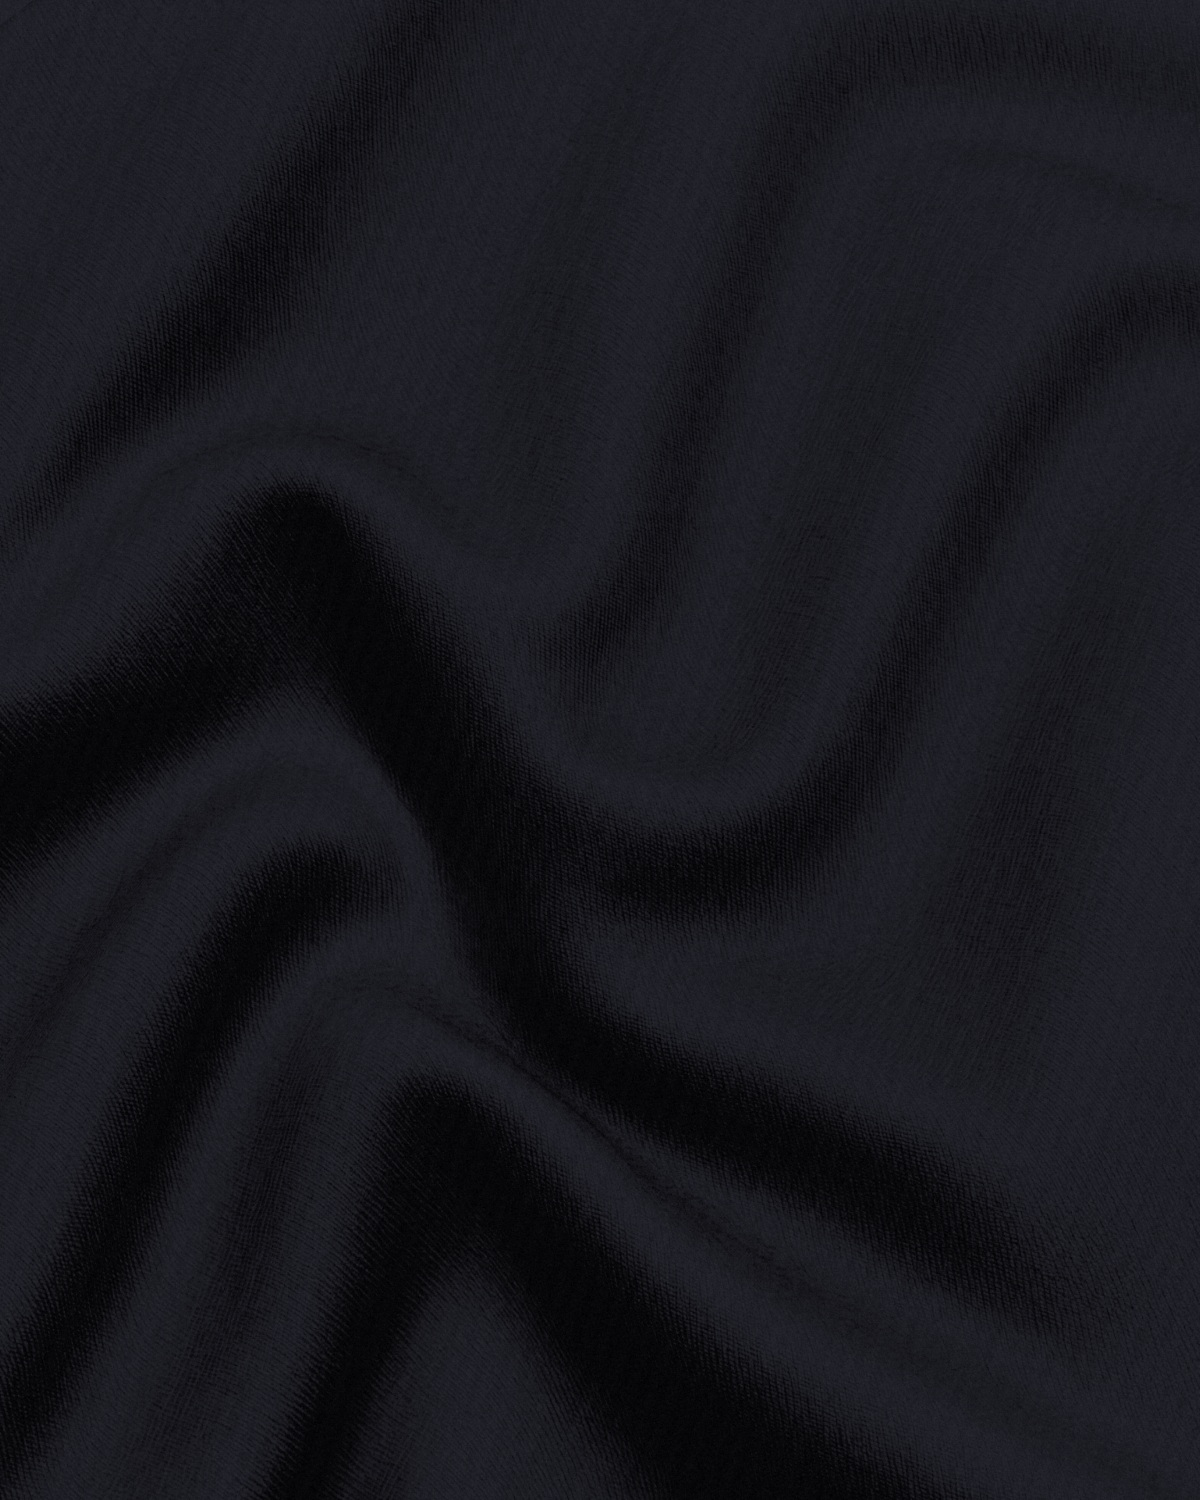
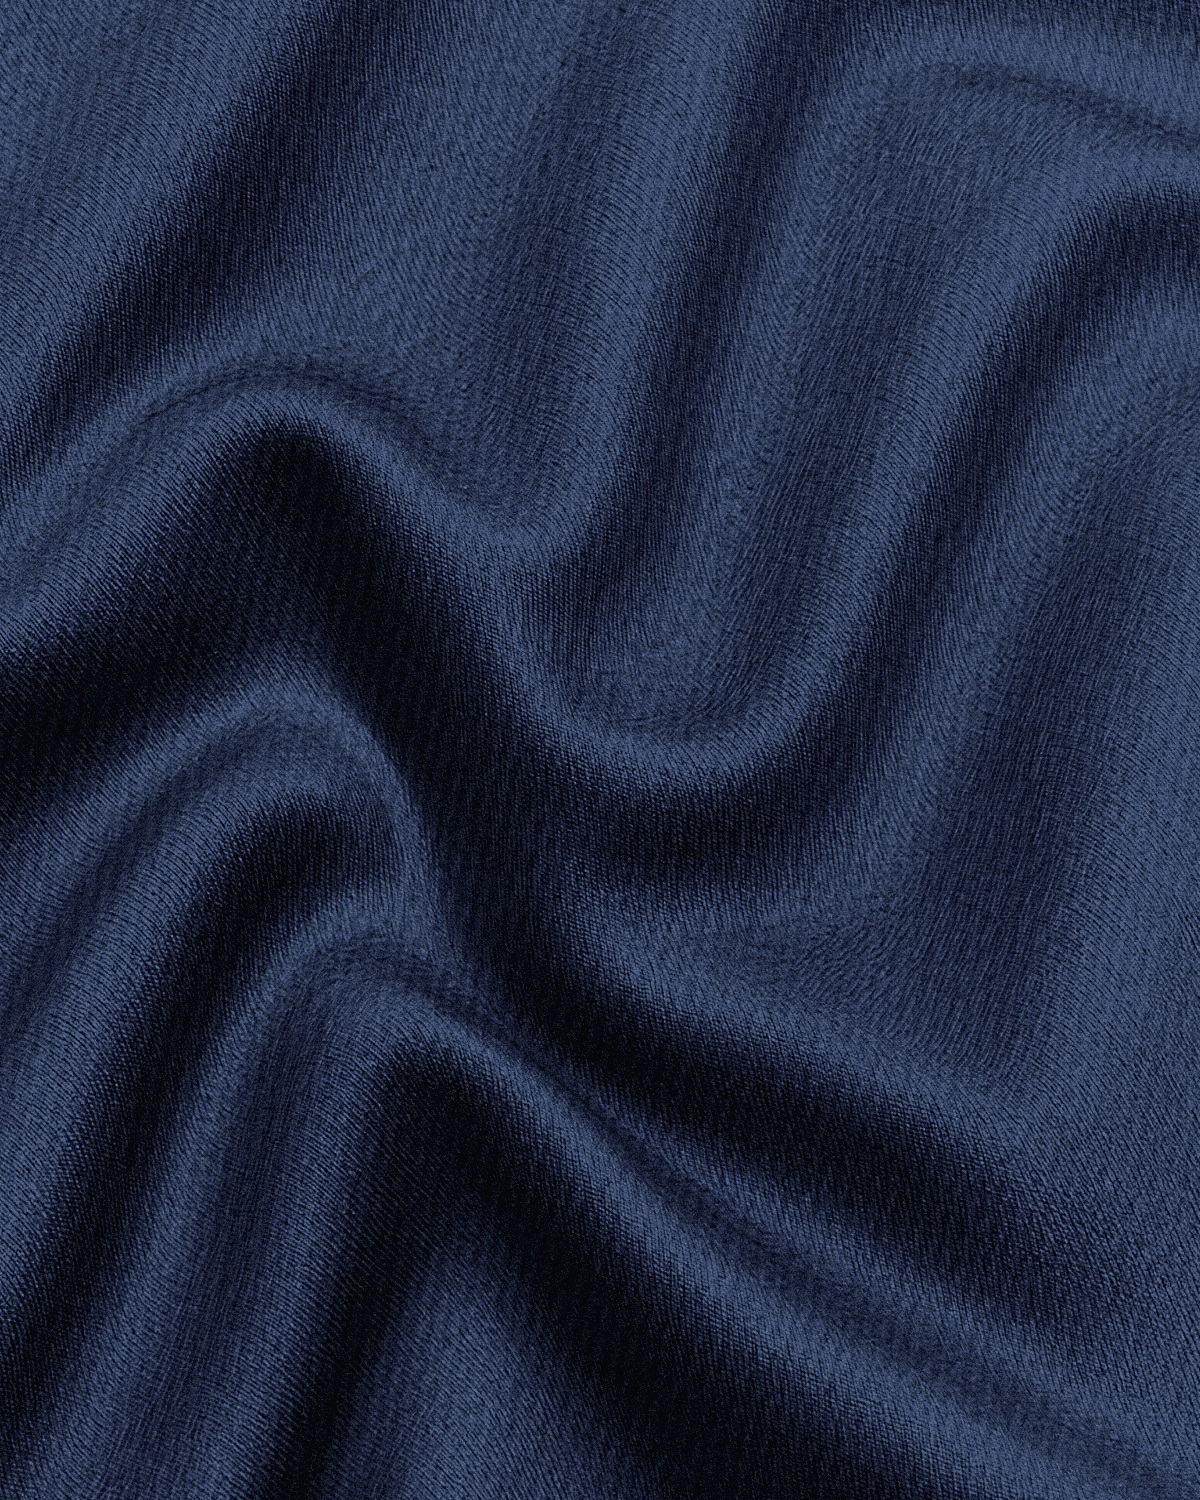
Make Noir blacks read as draped cloth, not a flat black screen.
Lift fold highlights and weave on all four Noir shades and add hex values
so colour chips show jet black, ink black, charcoal, and navy.

diff --git a/src/data/catalog.ts b/src/data/catalog.ts
@@ -428,24 +428,28 @@ export const products: Product[] = [
       {
         id: "fea-04-01",
         name: "Aswad — Jet Black",
+        hex: "#141414",
         available: true,
         imageIds: ["fea-04-01-studio", "fea-04-01-fill", "fea-04-01-detail"],
       },
       {
         id: "fea-04-02",
         name: "Layl — Ink Black",
+        hex: "#1a1f26",
         available: true,
         imageIds: ["fea-04-02-studio", "fea-04-02-fill", "fea-04-02-detail"],
       },
       {
         id: "fea-04-03",
         name: "Zulmat — Deep Charcoal",
+        hex: "#2a2926",
         available: true,
         imageIds: ["fea-04-03-studio", "fea-04-03-fill", "fea-04-03-detail"],
       },
       {
         id: "fea-04-04",
         name: "Neel — Midnight Navy",
+        hex: "#1a2740",
         available: true,
         imageIds: ["fea-04-04-studio", "fea-04-04-fill", "fea-04-04-detail"],
       },
@@ -546,24 +550,28 @@ export const products: Product[] = [
       {
         id: "fea-05-01",
         name: "Raad — Graphite Charcoal",
+        hex: "#3a3b3c",
         available: true,
         imageIds: ["fea-05-01-studio", "fea-05-01-fill", "fea-05-01-detail"],
       },
       {
         id: "fea-05-02",
         name: "Zarrar — Dark Olive",
+        hex: "#3f3a30",
         available: true,
         imageIds: ["fea-05-02-studio", "fea-05-02-fill", "fea-05-02-detail"],
       },
       {
         id: "fea-05-03",
         name: "Shahbaz — Deep Burgundy",
+        hex: "#3a1c18",
         available: true,
         imageIds: ["fea-05-03-studio", "fea-05-03-fill", "fea-05-03-detail"],
       },
       {
         id: "fea-05-04",
         name: "Sultan — Midnight Navy",
+        hex: "#1a2332",
         available: true,
         imageIds: ["fea-05-04-studio", "fea-05-04-fill", "fea-05-04-detail"],
       },
